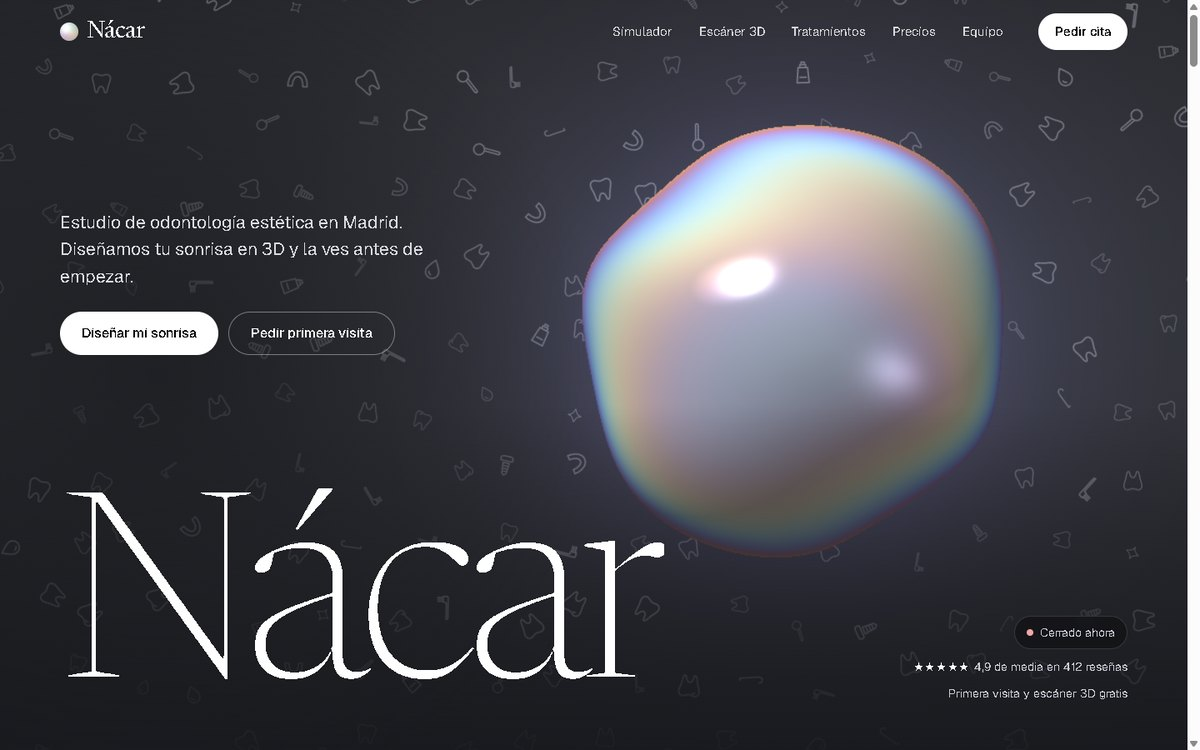
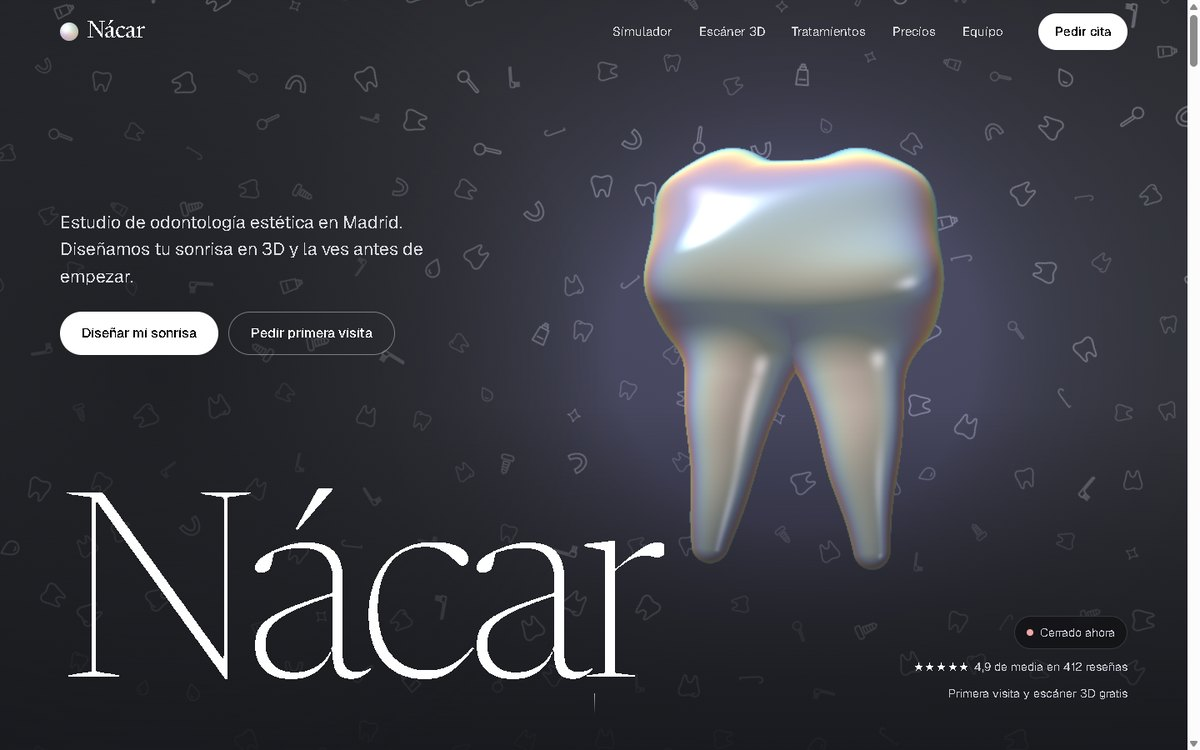
Nácar: hero pearl becomes a nacre molar that reacts to the pointer
Tilts toward the cursor, sways around a front view, and spins on a
swipe or tap before settling back.

diff --git a/Websites/clinica_dental_nacar.html b/Websites/clinica_dental_nacar.html
@@ -957,7 +957,7 @@ h1,h2,h3,p{margin:0}
     const li = $(`#hoursList li[data-d="${d}"]`); if (li) li.classList.add('today');
   })();
 
-  // ---------- HERO: a pearl of nacre, ray-marched in WebGL ----------
+  // ---------- HERO: a molar made of nacre, ray-marched in WebGL; tilts to the pointer, spins on swipe and tap ----------
   const pearl = (() => {
     const cv = $('#pearl'), hero = cv.parentElement;
     const gl = cv.getContext('webgl', {antialias: false, alpha: true, premultipliedAlpha: true, powerPreference: 'high-performance'});
@@ -965,14 +965,27 @@ h1,h2,h3,p{margin:0}
     if (!gl) { root.classList.add('no-gl'); return none; }
     const VS = 'attribute vec2 p;void main(){gl_Position=vec4(p,0.,1.);}';
     const FS = `precision highp float;
-uniform vec2 R;uniform float T;uniform vec2 M;uniform vec2 C;uniform float Z;
+uniform vec2 R;uniform float T;uniform vec2 M;uniform vec2 C;uniform float Z;uniform float S;
 mat2 rot(float a){float c=cos(a),s=sin(a);return mat2(c,-s,s,c);}
+float smin(float a,float b,float k){float h=clamp(.5+.5*(b-a)/k,0.,1.);return mix(b,a,h)-k*h*(1.-h);}
+float cone(vec3 p,vec3 a,vec3 b,float r1,float r2){
+  vec3 ba=b-a;float l2=dot(ba,ba),rr=r1-r2,a2=l2-rr*rr,il2=1./l2;
+  vec3 pa=p-a;float y=dot(pa,ba),z=y-l2;vec3 xv=pa*l2-ba*y;float x2=dot(xv,xv),y2=y*y*l2,z2=z*z*l2;
+  float k=sign(rr)*rr*rr*x2;
+  if(sign(z)*a2*z2>k)return sqrt(x2+z2)*il2-r2;
+  if(sign(y)*a2*y2<k)return sqrt(x2+y2)*il2-r1;
+  return (sqrt(x2*a2*il2)+y*rr)*il2-r1;
+}
 float map(vec3 p){
-  p.xz*=rot(T*.11+M.x*.7);p.yz*=rot(M.y*.45);
-  float d=length(p)-1.;
-  d+=.075*sin(2.6*p.x+T*.8)*sin(2.9*p.y+T*.6)*sin(2.4*p.z+T*.7);
-  d+=.022*sin(6.*p.y+T*1.1+3.*p.x);
-  return d*.8;
+  p.xz*=rot(S+M.x*.9);p.yz*=rot(-.3+M.y*.5);
+  p*=1.2;p.y-=.05;
+  vec3 q=abs(p-vec3(0.,.42,0.))/vec3(.84,.5,.7);q*=q;
+  float d=(pow(dot(q,q),.25)-1.)*.5;
+  vec3 c=vec3(abs(p.x),p.y,abs(p.z));
+  d=smin(d,length(c-vec3(.36,.84,.3))-.2,.2);
+  d=smin(d,cone(vec3(abs(p.x),p.y,p.z),vec3(.32,.05,0.),vec3(.44,-1.2,.02),.36,.1),.22);
+  d+=.008*sin(9.*p.y+T*1.2+4.*p.x);
+  return d/1.2*.7;
 }
 vec3 nor(vec3 p){vec2 e=vec2(.002,0.);return normalize(vec3(map(p+e.xyy)-map(p-e.xyy),map(p+e.yxy)-map(p-e.yxy),map(p+e.yyx)-map(p-e.yyx)));}
 vec3 iri(float t){return .58+.42*cos(6.2831*(t+vec3(0.,.2,.43)));}
@@ -986,7 +999,7 @@ void main(){
   vec2 uv=(gl_FragCoord.xy-C)/R.y/Z;
   vec3 ro=vec3(0.,0.,3.4),rd=normalize(vec3(uv,-1.9));
   float t=0.,d=1.;bool hit=false;
-  for(int i=0;i<72;i++){d=map(ro+rd*t);if(d<.001){hit=true;break;}t+=d;if(t>6.)break;}
+  for(int i=0;i<120;i++){d=map(ro+rd*t);if(d<.001){hit=true;break;}t+=d;if(t>6.)break;}
   float r=length(uv),a=0.;
   vec3 col=vec3(.42,.38,.75)*.22*exp(-4.*max(r-.5,0.))*Z*1.8;
   if(hit){
@@ -1009,8 +1022,8 @@ void main(){
     gl.bindBuffer(gl.ARRAY_BUFFER, gl.createBuffer());
     gl.bufferData(gl.ARRAY_BUFFER, new Float32Array([-1, -1, 3, -1, -1, 3]), gl.STATIC_DRAW);
     const loc = gl.getAttribLocation(pr, 'p'); gl.enableVertexAttribArray(loc); gl.vertexAttribPointer(loc, 2, gl.FLOAT, false, 0, 0);
-    const U = {}; ['R', 'T', 'M', 'C', 'Z'].forEach((k) => { U[k] = gl.getUniformLocation(pr, k); });
-    let W = 0, H = 0, q = 1, raf = 0, born = 0, mx = 0, my = 0, tx = 0, ty = 0, visible = true;
+    const U = {}; ['R', 'T', 'M', 'C', 'Z', 'S'].forEach((k) => { U[k] = gl.getUniformLocation(pr, k); });
+    let W = 0, H = 0, q = 1, raf = 0, born = 0, mx = 0, my = 0, tx = 0, ty = 0, visible = true, spin = 0, turn = 0, boost = 0, pulse = 0, last = 0, lx = null;
     const t0 = performance.now();
     const size = () => {
       q = Math.min(devicePixelRatio || 1, 1.5) * (innerWidth < 760 ? .75 : .8);
@@ -1022,18 +1035,29 @@ void main(){
       const t = (now - t0) / 1000;
       const k = reduce.matches ? 1 : ease(clamp((now - born) / 2200, 0, 1));
       mx = lerp(mx, tx, .04); my = lerp(my, ty, .04);
+      const dt = last ? Math.min((now - last) / 1000, .05) : 0; last = now;
+      boost *= Math.exp(-dt * 1.4); pulse *= Math.exp(-dt * 5);
+      // sways around a front view; a flick adds whole turns that ease back to facing front
+      spin += dt; turn += dt * boost;
+      if (boost < .4) turn = lerp(turn, Math.round(turn / 6.2832) * 6.2832, 1 - Math.exp(-dt * 2.5));
       const phone = cv.clientWidth < 760;
       const rpx = phone ? Math.min(W * .3, H * .15) : Math.min(H * .27, W * .2);
       const cx = phone ? W * .62 : W * .67, cy = phone ? H * .77 : H * .54;
       gl.uniform2f(U.R, W, H); gl.uniform1f(U.T, reduce.matches ? 4 : t);
-      gl.uniform2f(U.M, mx, my);
+      gl.uniform2f(U.M, mx, my); gl.uniform1f(U.S, reduce.matches ? .35 : Math.sin(spin * .45) * .75 + turn);
       hero.style.setProperty('--hx', mx.toFixed(3)); hero.style.setProperty('--hy', my.toFixed(3));
       gl.uniform2f(U.C, cx + mx * 14 * q, cy + my * 10 * q);
-      gl.uniform1f(U.Z, Math.max(rpx / (.56 * H), .001) * (.35 + .65 * k));
+      gl.uniform1f(U.Z, Math.max(rpx / (.56 * H), .001) * (.35 + .65 * k) * (1 + .07 * Math.sin(pulse * 9) * pulse));
       gl.drawArrays(gl.TRIANGLES, 0, 3);
     };
     const loop = (now) => { draw(now); raf = requestAnimationFrame(loop); };
-    addEventListener('pointermove', (e) => { tx = e.clientX / innerWidth * 2 - 1; ty = e.clientY / innerHeight * 2 - 1; }, {passive: true});
+    addEventListener('pointermove', (e) => {
+      tx = e.clientX / innerWidth * 2 - 1; ty = e.clientY / innerHeight * 2 - 1;
+      if (lx !== null && e.pointerType === 'mouse') boost = Math.min(boost + Math.abs(e.clientX - lx) * .003, 3);
+      lx = e.clientX;
+    }, {passive: true});
+    // a tap anywhere on the hero that is not a link or button flicks the tooth round
+    hero.addEventListener('pointerdown', (e) => { if (e.target.closest('a,button')) return; boost = Math.min(boost + 6, 9); pulse = 1; });
     new IntersectionObserver(([e]) => { visible = e.isIntersecting; visible ? api.start() : api.stop(); }).observe(cv);
     const api = {
       size,
